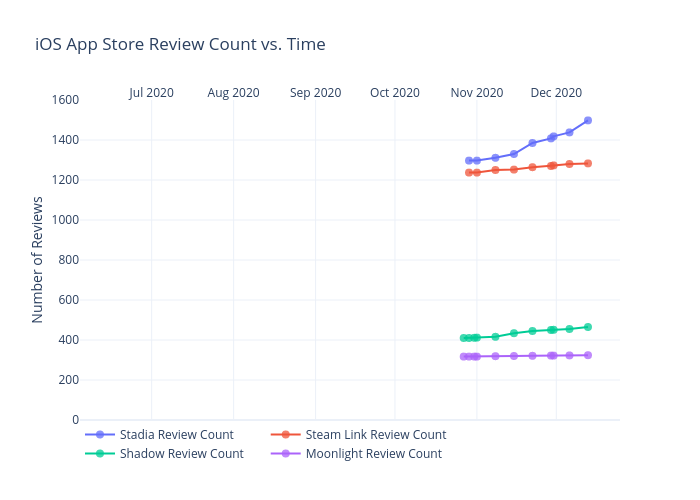
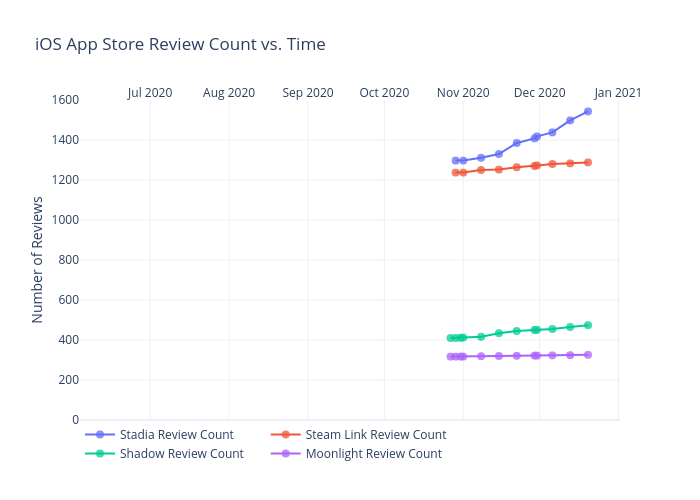
Add files via upload

diff --git a/iosappstore/figure.js b/iosappstore/figure.js
@@ -44,7 +44,8 @@ var figure = {
                 "1408",
                 "1418",
                 "1438",
-                "1498"
+                "1498",
+                "1543"
             ],
             "marker": {
                 "size": 8,
@@ -98,7 +99,8 @@ var figure = {
                 "1270",
                 "1273",
                 "1280",
-                "1283"
+                "1283",
+                "1288"
             ],
             "marker": {
                 "size": 8,
@@ -152,7 +154,8 @@ var figure = {
                 "450",
                 "451",
                 "455",
-                "465"
+                "465",
+                "474"
             ],
             "marker": {
                 "size": 8,
@@ -206,7 +209,8 @@ var figure = {
                 "322",
                 "322",
                 "323",
-                "324"
+                "324",
+                "326"
             ],
             "marker": {
                 "size": 8,
@@ -225,8 +229,8 @@ var figure = {
             "side": "top",
             "type": "date",
             "range": [
-                "2020-06-04 17:16:26.7623",
-                "2020-12-24 06:43:33.2377"
+                "2020-06-04 06:44:45.1363",
+                "2020-12-31 17:15:14.8637"
             ],
             "title": {
                 "text": ""
